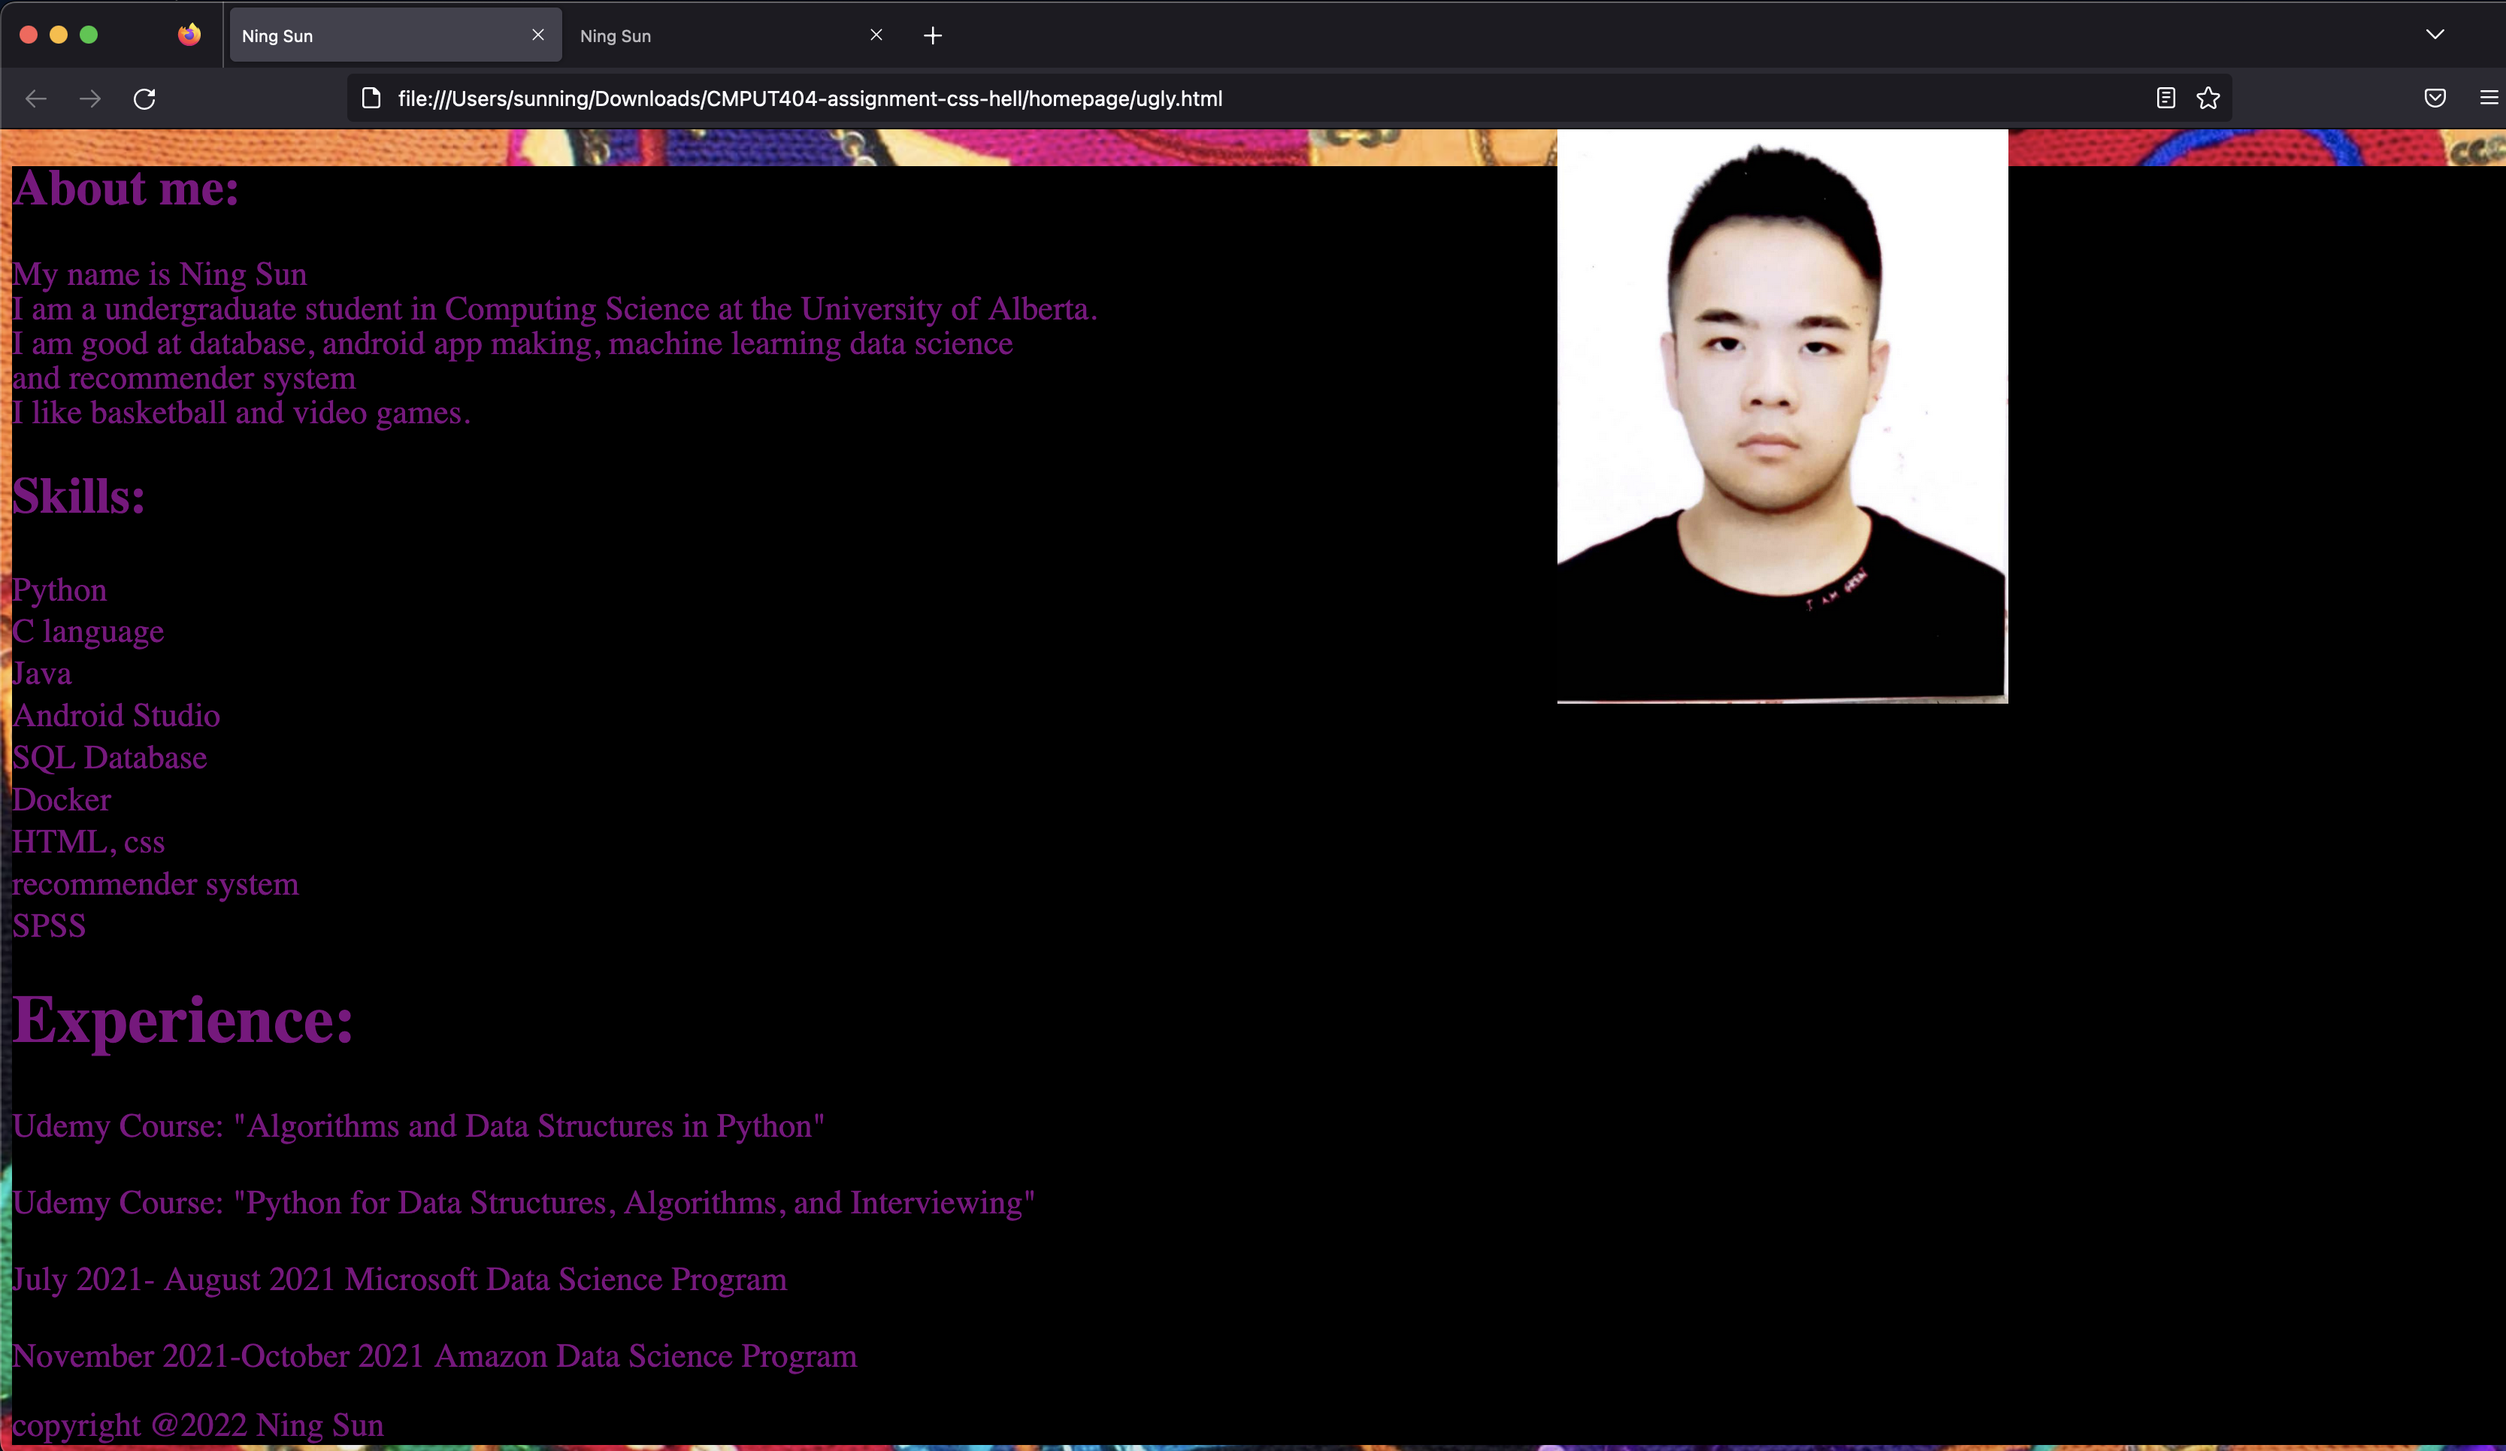
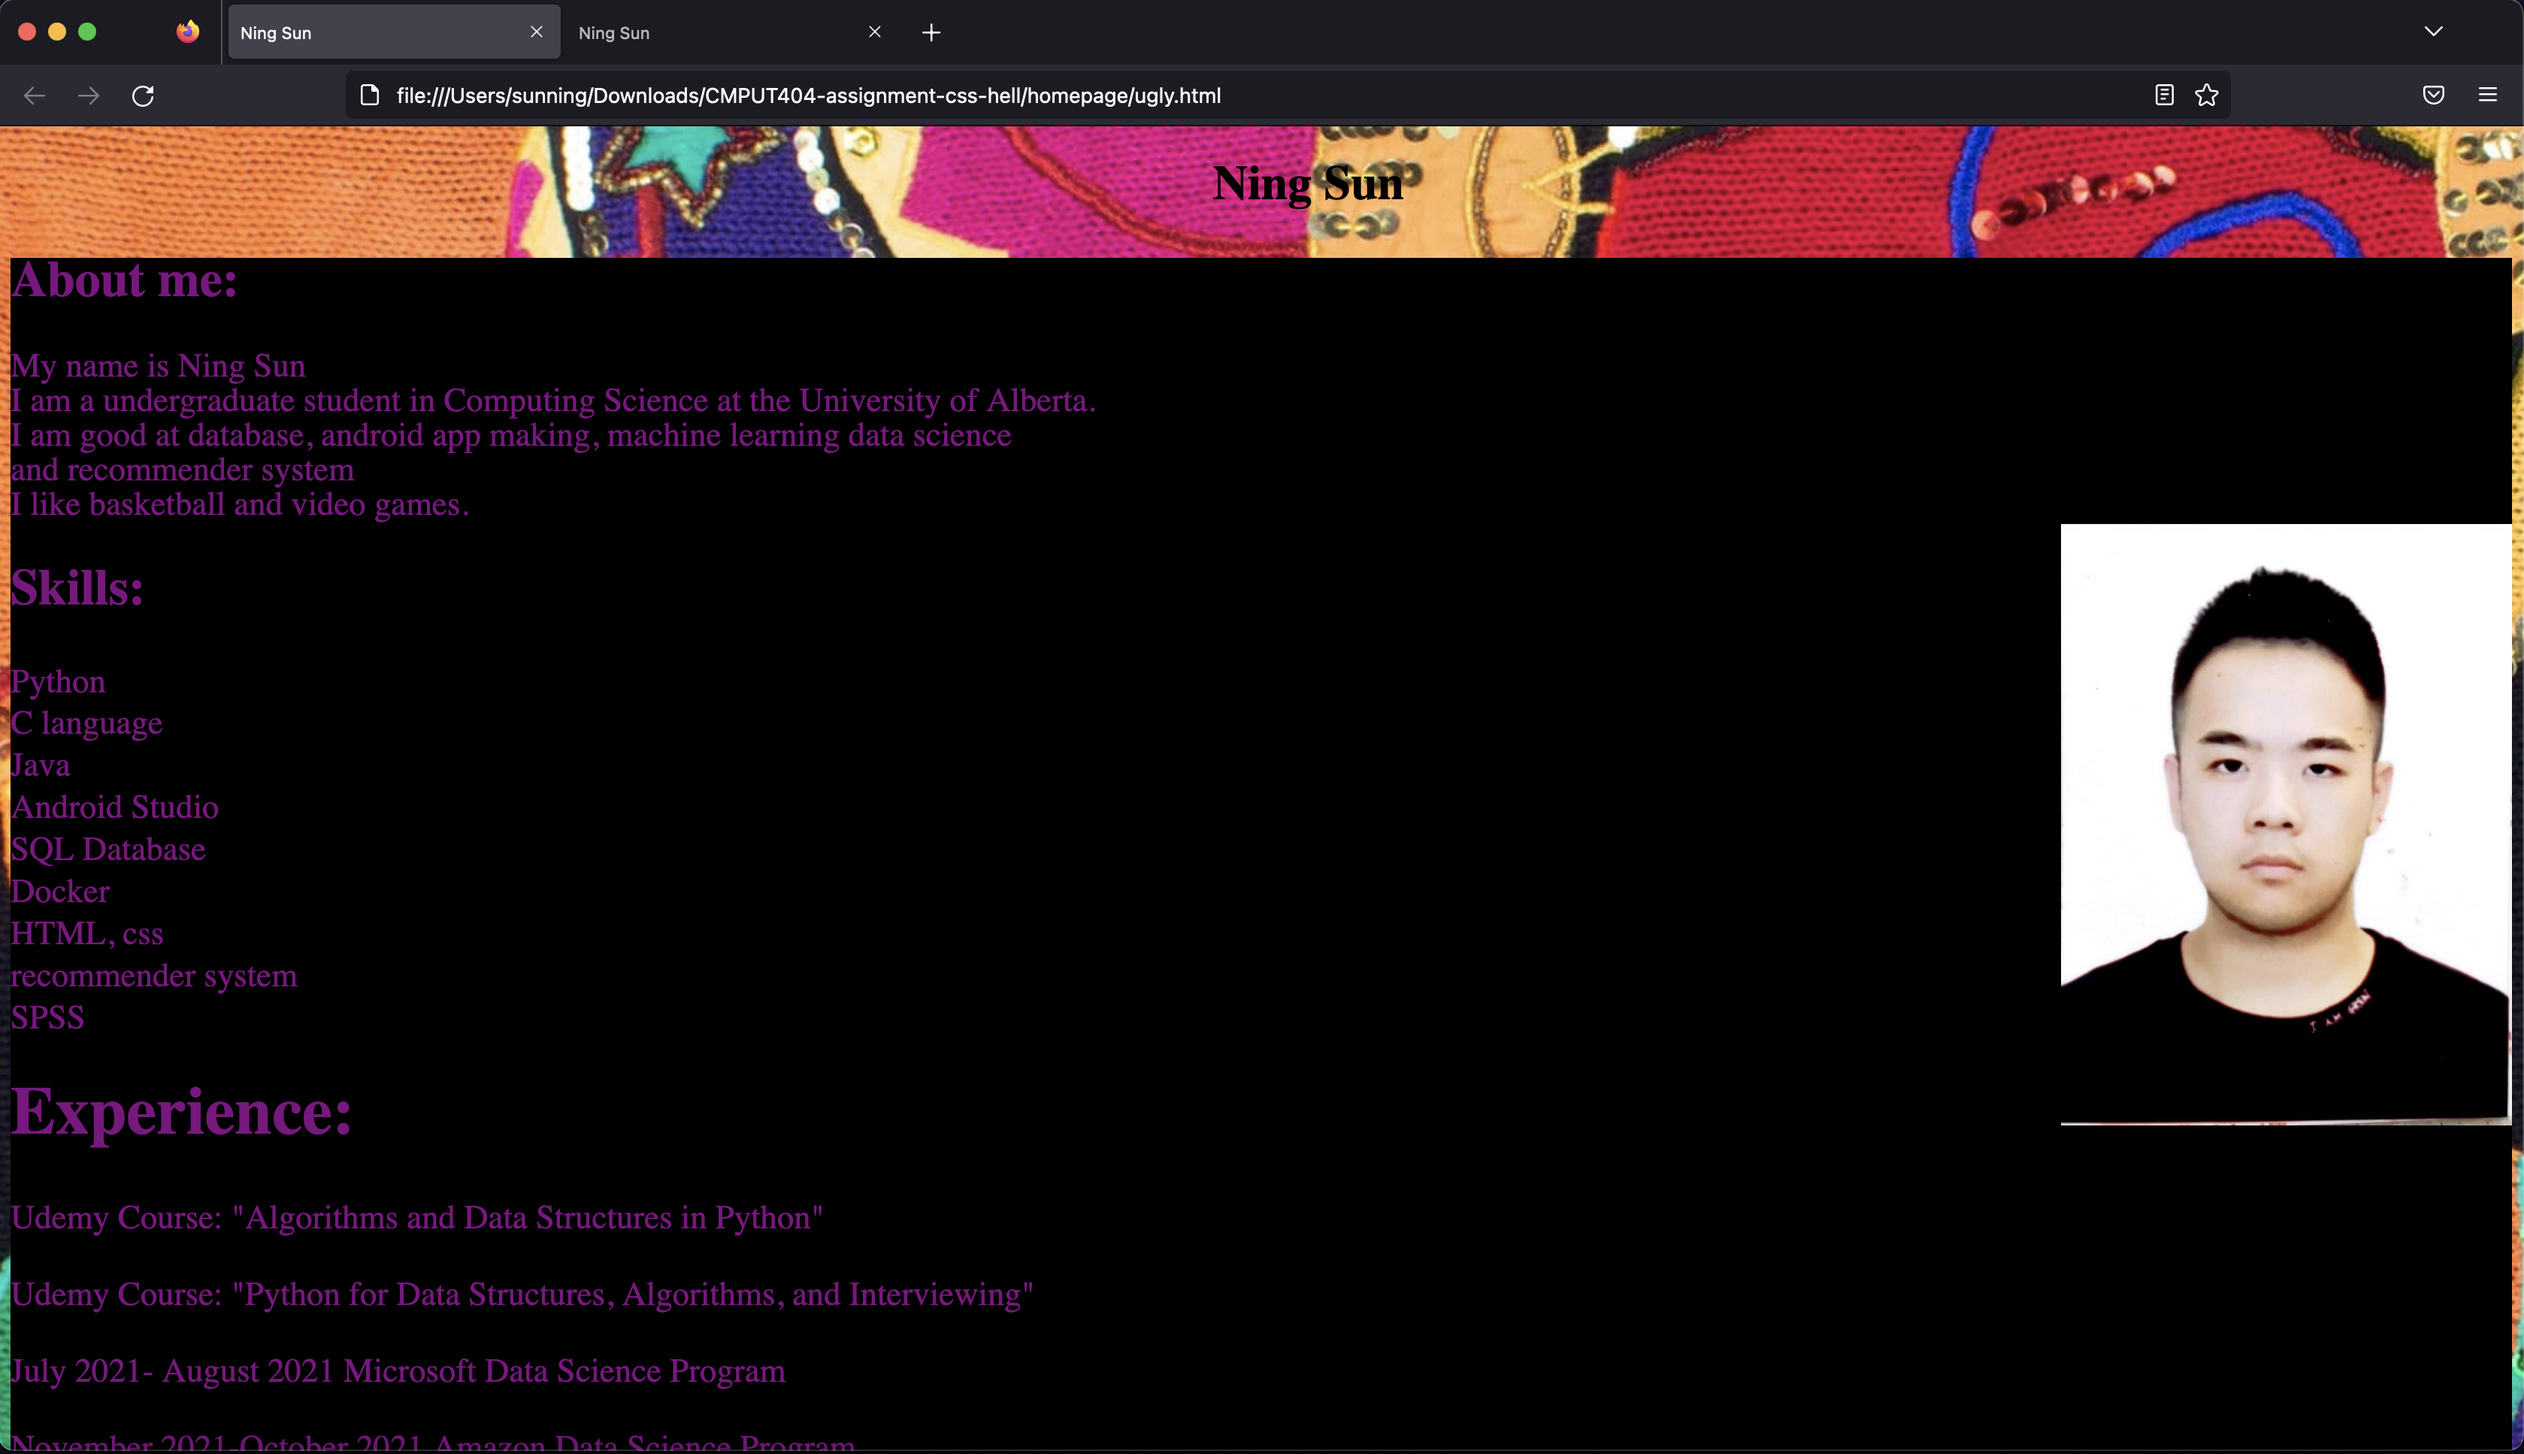
1

diff --git a/homepage/good.css b/homepage/good.css
@@ -7,10 +7,7 @@ body{
     width: 300px;
     height: 400px;
     float: right;
-    padding-right: 15em;
-    padding-left: 7em;
-    margin-top:-9.8em;
-    margin-bottom: 10em
+
 
 }
 

diff --git a/homepage/ugly.css b/homepage/ugly.css
@@ -7,10 +7,6 @@ body{
     width: 300px;
     height: 400px;
     float: right;
-    padding-right: 15em;
-    padding-left: 7em;
-    margin-top:-9.8em;
-    margin-bottom: 10em
 
 }
 
